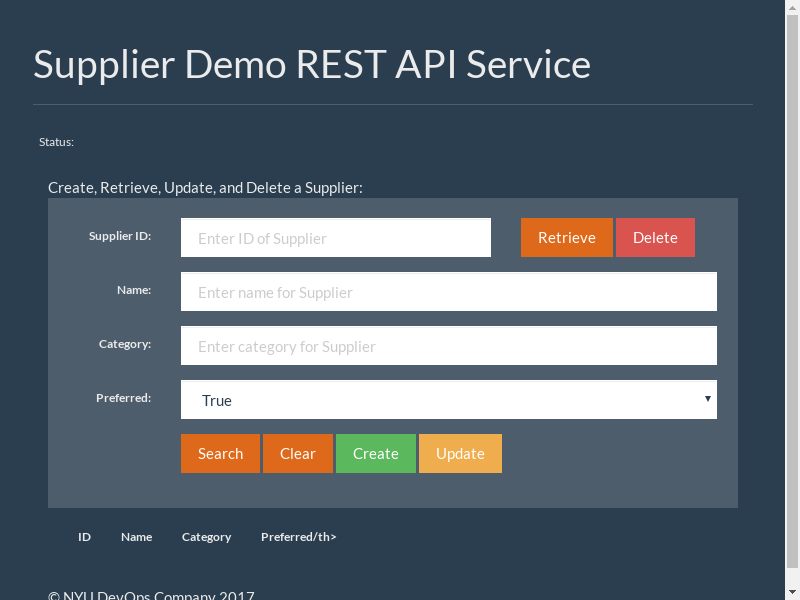
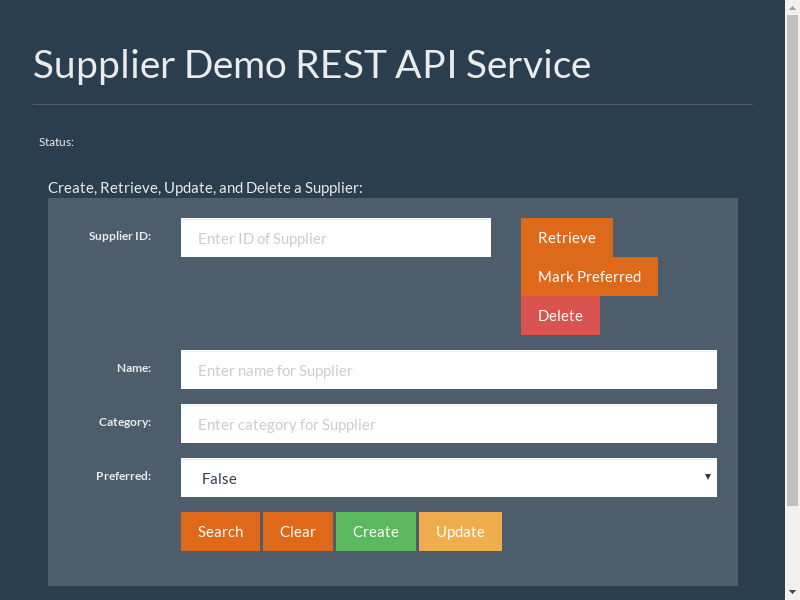
Added  BDD action test and tests to improve coverage

diff --git a/service/static/index.html b/service/static/index.html
@@ -33,6 +33,7 @@
                 </div>
                 <div class="col-sm-4">
                   <button type="submit" class="btn btn-primary" id="retrieve-btn">Retrieve</button>
+                  <button type="submit" class="btn btn-primary" id="mark-preferred-btn">Mark Preferred</button>
                   <button type="submit" class="btn btn-danger" id="delete-btn">Delete</button>
                 </div>
               </div>
@@ -55,8 +56,8 @@
                 <label class="control-label col-sm-2" for="supplier_preferred">Preferred:</label>
                 <div class="col-sm-10">
                   <select class="form-control" id="supplier_preferred">
-                      <option value="true" selected>True</option>
                       <option value="false">False</option>
+                      <option value="true">True</option>
                   </select>
                 </div>
               </div>

diff --git a/service/static/js/rest_api.js b/service/static/js/rest_api.js
@@ -241,4 +241,34 @@ $(function () {
 
     });
 
+
+
+    // ****************************************
+    // Mark a Supplier as Preferred
+    // ****************************************
+
+    $("#mark-preferred-btn").click(function () {
+
+        var supplier_id = $("#supplier_id").val();
+
+        var ajax = $.ajax({
+            type: "PUT",
+            url: "/suppliers/" + supplier_id + "/preferred",
+            contentType: "application/json",
+            data: ''
+        })
+
+        ajax.done(function(res){
+            //alert(res.toSource())
+            update_form_data(res)
+            flash_message("Success")
+        });
+
+        ajax.fail(function(res){
+            clear_form_data()
+            flash_message(res.responseJSON.message)
+        });
+
+    });
+
 })

diff --git a/features/steps/supplier_steps.py b/features/steps/supplier_steps.py
@@ -22,7 +22,7 @@ WAIT_SECONDS = int(getenv('WAIT_SECONDS', '60'))
 def step_impl(context):
     """ Delete all Suppliers and load new ones """
     headers = {'Content-Type': 'application/json'}
-    context.resp = requests.get(context.base_url + '/suppliers/clear', headers=headers)
+    context.resp = requests.delete(context.base_url + '/suppliers/reset', headers=headers)
     expect(context.resp.status_code).to_equal(204)
     create_url = context.base_url + '/suppliers'
     for row in context.table:
@@ -82,26 +82,6 @@ def step_impl(context, message):
         )
     )
     expect(found).to_be(True)
-
-@when('I copy the "{element_name}" field')
-def step_impl(context, element_name):
-    element_id = 'supplier_' + element_name.lower()
-    # element = context.driver.find_element_by_id(element_id)
-    element = WebDriverWait(context.driver, WAIT_SECONDS).until(
-        expected_conditions.presence_of_element_located((By.ID, element_id))
-    )
-    context.clipboard = element.get_attribute('value')
-    logging.info('Clipboard contains: %s', context.clipboard)
-
-@when('I paste the "{element_name}" field')
-def step_impl(context, element_name):
-    element_id = 'supplier_' + element_name.lower()
-    # element = context.driver.find_element_by_id(element_id)
-    element = WebDriverWait(context.driver, WAIT_SECONDS).until(
-        expected_conditions.presence_of_element_located((By.ID, element_id))
-    )
-    element.clear()
-    element.send_keys(context.clipboard)
 
 #Button action
 @when('I press the "{button}" button')
@@ -169,5 +149,12 @@ def step_impl(context, element_name):
     )
     element.clear()
     element.send_keys(context.clipboard)
+
+@then('I should see "{text}" in the "{element_name}" dropdown')
+def step_impl(context, text, element_name):
+    element_id = 'supplier_' + element_name.lower()
+    element = Select(context.driver.find_element_by_id(element_id))
+    expect(element.first_selected_option.text).to_equal(text)
+
 
 

diff --git a/tests/test_service.py b/tests/test_service.py
@@ -222,7 +222,7 @@ class TestYourResourceServer(TestCase):
         """ Mark a Preferred Supplier (action test) """
         supplier = SupplierFactory.create_batch(1)
         supplier[0].name="Erlich Bachman"
-        supplier[0].preferred="False"
+        supplier[0].preferred="false"
         supplier[0].create()
         
         resp = self.app.get('/suppliers/{}'.format(supplier[0].id), content_type='application/json')
@@ -230,7 +230,7 @@ class TestYourResourceServer(TestCase):
         data = resp.get_json()
         logging.debug('data = %s', data)
         #Ensure that preferred flag is false prior to action
-        self.assertEqual(data["preferred"], "False")
+        self.assertEqual(data["preferred"], "false")
 
         resp = self.app.put('/suppliers/{}/preferred'.format(supplier[0].id), content_type='application/json')
         self.assertEqual(resp.status_code, status.HTTP_200_OK)
@@ -240,7 +240,21 @@ class TestYourResourceServer(TestCase):
         data = resp.get_json()
         logging.debug('data = %s', data)
         #Ensure that preferred flag is set to True after action
-        self.assertEqual(data["preferred"], "True")
+        self.assertEqual(data["preferred"], "true")
+
+    def test_reset_supplier_database(self):
+        """ RESET Suppliers Database """
+        supplier = SupplierFactory.create_batch(3)
+        resp = self.app.delete(
+            "/suppliers/reset", content_type="application/json"
+        )
+        self.assertEqual(resp.status_code, status.HTTP_204_NO_CONTENT)
+        self.assertEqual(len(resp.data), 0)
+        # make sure they are deleted
+        resp = self.app.get(
+            "/suppliers/{}", content_type="application/json"
+        )
+        self.assertEqual(resp.status_code, status.HTTP_404_NOT_FOUND)
 
 ######################################################################
 #  P R O D U C T S   T E S T   C A S E S

diff --git a/tests/test_models.py b/tests/test_models.py
@@ -279,19 +279,19 @@ class TestSupplier(unittest.TestCase):
     def test_find_by_preferred(self):
         """ Find a Supplier by Preferred """
         suppliers = SupplierFactory.create_batch(3)
-        suppliers[0].preferred="False"
+        suppliers[0].preferred="false"
         suppliers[0].create()
         suppliers[1].name="Mark Jacob"
-        suppliers[1].preferred="True"
+        suppliers[1].preferred="true"
         suppliers[1].create()
-        suppliers[2].preferred="False"
+        suppliers[2].preferred="false"
         suppliers[2].create()
         
-        results = Supplier.find_by_preferred("True")
+        results = Supplier.find_by_preferred("true")
         logging.debug(results)
         self.assertNotEqual(results, [])
         self.assertEqual(results[0].name, "Mark Jacob")
-        self.assertEqual(results[0].preferred, "True")
+        self.assertEqual(results[0].preferred, "true")
 
     def test_find_or_404_found(self):
         """ Find or return 404 found """

diff --git a/service/service.py b/service/service.py
@@ -223,14 +223,14 @@ def preferred_suppliers(supplier_id):
     supplier = Supplier.find(supplier_id)
     if not supplier:
         abort(status.HTTP_404_NOT_FOUND, "Supplier with id '{}' was not found.".format(supplier_id)) 
-    supplier.preferred = "True"
+    supplier.preferred = "true"
     supplier.save()
     return make_response(jsonify(supplier.serialize()), status.HTTP_200_OK)
 
 ######################################################################
-# DELETE ALL Suppliers
+# RESET Suppliers Database
 ######################################################################
-@app.route("/suppliers/clear", methods=["GET"])
+@app.route("/suppliers/reset", methods=["DELETE"])
 def delete_all_suppliers():
     """ Returns IDs of the Suppliers """
     app.logger.info("Request for Supplier list")

diff --git a/tests/factories.py b/tests/factories.py
@@ -47,5 +47,5 @@ class SupplierFactory(factory.Factory):
     address = factory.Faker("address")
     email = factory.Faker("email")
     phone_number = factory.Faker("phone_number")
-    preferred = FuzzyChoice(choices=["True", "False"])
+    preferred = FuzzyChoice(choices=["true", "false"])
     
